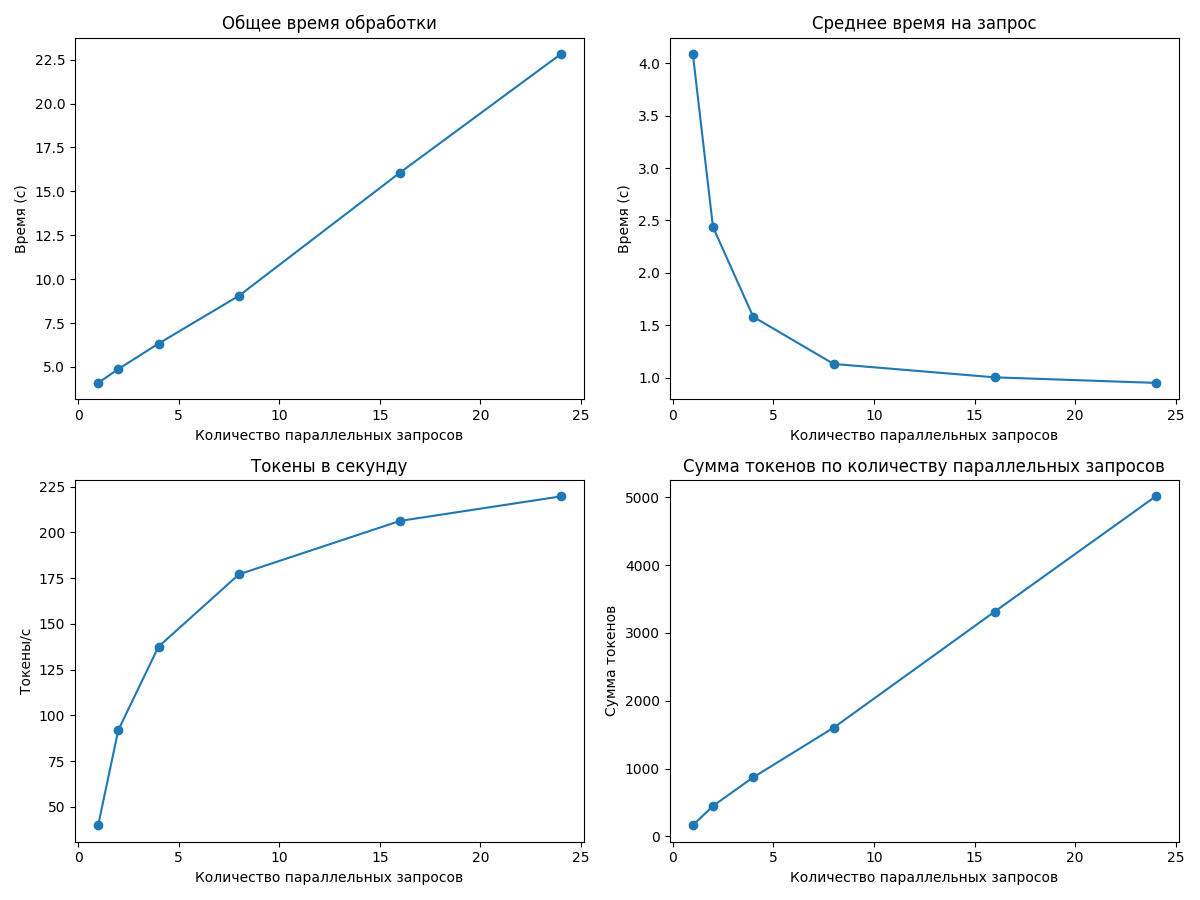
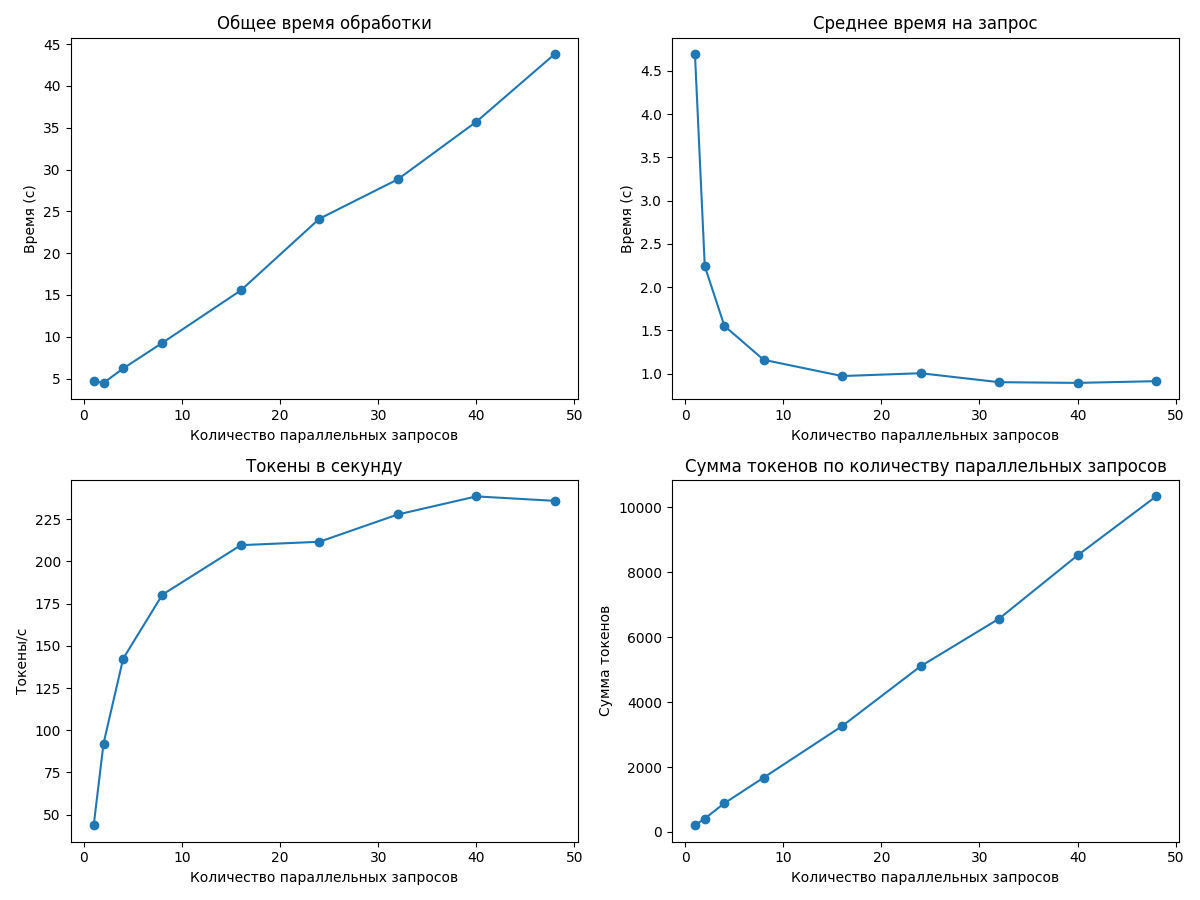
обновление характеристик

diff --git a/check_speed.py b/check_speed.py
@@ -187,43 +187,64 @@ async def main(parallels:int=8, max_requests:int=10):
 if __name__ == "__main__":
     start_time_all = time.time()
     
+    max_requests = 50
+    
     # start_time = time.time()
-    # print("Запуск проверки скорости для 4 параллельных запросов (до 30 запросов)")
-    # asyncio.run(main(parallels=4, max_requests=30))
+    # print("Запуск проверки скорости для 4 параллельных запросов (до 50 запросов)")
+    # asyncio.run(main(parallels=4, max_requests=max_requests))
     # end_time = time.time()
 
-    # print("Запуск проверки скорости для 6 параллельных запросов (до 30 запросов)")
+    # print("Запуск проверки скорости для 6 параллельных запросов (до 50 запросов)")
     # start_time = time.time()
-    # asyncio.run(main(parallels=6, max_requests=30))
+    # asyncio.run(main(parallels=6, max_requests=max_requests))
     # end_time = time.time()
 
-    print("Запуск проверки скорости для 8 параллельных запросов (до 30 запросов)")
-    start_time = time.time()
-    asyncio.run(main(parallels=8, max_requests=30))
-    end_time = time.time()
+    # print("Запуск проверки скорости для 8 параллельных запросов (до 30 запросов)")
+    # start_time = time.time()
+    # asyncio.run(main(parallels=8, max_requests=max_requests))
+    # end_time = time.time()
 
     # print("Запуск проверки скорости для 10 параллельных запросов (до 30 запросов)")
     # start_time = time.time()
-    # asyncio.run(main(parallels=10, max_requests=30))
+    # asyncio.run(main(parallels=10, max_requests=max_requests))
     # end_time = time.time()
 
     # print("Запуск проверки скорости для 12 параллельных запросов (до 30 запросов)")
     # start_time = time.time()
-    # asyncio.run(main(parallels=12, max_requests=30))
+    # asyncio.run(main(parallels=12, max_requests=max_requests))
     # end_time = time.time()
     # print(f"Завершено за {(end_time - start_time):.2f} секунд")
     
-    start_time = time.time()
-    print("Запуск проверки скорости для 15 параллельных запросов (до 30 запросов)")
-    asyncio.run(main(parallels=15, max_requests=30))
-    end_time = time.time()
-    print(f"Завершено за {(end_time - start_time):.2f} секунд")
+    # start_time = time.time()
+    # print("Запуск проверки скорости для 15 параллельных запросов (до 30 запросов)")
+    # asyncio.run(main(parallels=15, max_requests=max_requests))
+    # end_time = time.time()
+    # print(f"Завершено за {(end_time - start_time):.2f} секунд")
     
+    # start_time = time.time()
+    # print("Запуск проверки скорости для 20 параллельных запросов (до 30 запросов)")
+    # asyncio.run(main(parallels=20, max_requests=max_requests))
+    # end_time = time.time()
+    # print(f"Завершено за {(end_time - start_time):.2f} секунд")
+
     start_time = time.time()
-    print("Запуск проверки скорости для 20 параллельных запросов (до 30 запросов)")
-    asyncio.run(main(parallels=20, max_requests=30))
+    print("Запуск проверки скорости для 30 параллельных запросов (до 30 запросов)")
+    asyncio.run(main(parallels=30, max_requests=max_requests))
     end_time = time.time()
     print(f"Завершено за {(end_time - start_time):.2f} секунд")
+
+    start_time = time.time()
+    print("Запуск проверки скорости для 40 параллельных запросов (до 30 запросов)")
+    asyncio.run(main(parallels=40, max_requests=max_requests))
+    end_time = time.time()
+    print(f"Завершено за {(end_time - start_time):.2f} секунд")
+
+    start_time = time.time()
+    print("Запуск проверки скорости для 50 параллельных запросов (до 30 запросов)")
+    asyncio.run(main(parallels=50, max_requests=max_requests))
+    end_time = time.time()
+    print(f"Завершено за {(end_time - start_time):.2f} секунд")
+
 
     print(f"Полный прогон за {(end_time - start_time_all) / 60:.2f} минут")
     

diff --git a/report.md b/report.md
@@ -6,19 +6,19 @@
 
 |   Количество параллельных запросов |   Оптимальный размер пакета |   Максимальная скорость (токены/сек) |
 |-----------------------------------:|----------------------------:|-------------------------------------:|
-|                                  4 |                          16 |                              153.303 |
-|                                  6 |                          48 |                              189.129 |
-|                                  8 |                          24 |                              205.065 |
-|                                 10 |                          24 |                              219.66  |
-|                                 12 |                          24 |                              247.47  |
-|                                 15 |                          24 |                              245.023 |
-|                                 20 |                          16 |                              245.086 |
+|                                  4 |                          40 |                              232.02  |
+|                                  6 |                          48 |                              224.558 |
+|                                  8 |                          48 |                              204.785 |
+|                                 10 |                          40 |                              238.537 |
+|                                 12 |                          48 |                              254.737 |
+|                                 15 |                          48 |                              260.276 |
+|                                 20 |                          40 |                              293.325 |
 
 ### Наилучшая конфигурация для данного оборудования
 
-- **Количество параллельных запросов:** 12
-- **Оптимальный размер пакета:** 24
-- **Скорость обработки:** 247.47 токенов/сек
+- **Количество параллельных запросов:** 20
+- **Оптимальный размер пакета:** 40
+- **Скорость обработки:** 293.33 токенов/сек
 
 ---
 
@@ -32,16 +32,19 @@
 
 |   Количество параллельных запросов |   Общее время (с) |   Среднее время на запрос (с) |   Токены в секунду |   Сумма токенов |
 |-----------------------------------:|------------------:|------------------------------:|-------------------:|----------------:|
-|                                  1 |           4.67303 |                       4.67303 |            41.3008 |             193 |
-|                                  2 |           4.27433 |                       2.13716 |            90.7746 |             388 |
-|                                  4 |           5.83158 |                       1.45789 |           135.469  |             790 |
-|                                  8 |          10.6917  |                       1.33647 |           143.101  |            1530 |
-|                                 16 |          20.952   |                       1.3095  |           153.303  |            3212 |
-|                                 24 |          33.1616  |                       1.38173 |           153.219  |            5081 |
+|                                  1 |           6.81911 |                      6.81911  |            30.9424 |             211 |
+|                                  2 |           4.60466 |                      2.30233  |            87.3029 |             402 |
+|                                  4 |           6.44395 |                      1.61099  |           134.39   |             866 |
+|                                  8 |           9.3083  |                      1.16354  |           179.087  |            1667 |
+|                                 16 |          17.0775  |                      1.06735  |           209.339  |            3575 |
+|                                 24 |          22.845   |                      0.951877 |           211.293  |            4827 |
+|                                 32 |          30.1677  |                      0.94274  |           216.888  |            6543 |
+|                                 40 |          35.2987  |                      0.882467 |           232.02   |            8190 |
+|                                 48 |          43.0787  |                      0.897472 |           228.048  |            9824 |
 
-**Оптимальный размер пакета:** 16
+**Оптимальный размер пакета:** 40
 
-**Максимальная скорость обработки:** 153.30 токенов в секунду
+**Максимальная скорость обработки:** 232.02 токенов в секунду
 
 ---
 
@@ -53,19 +56,19 @@
 
 |   Количество параллельных запросов |   Общее время (с) |   Среднее время на запрос (с) |   Токены в секунду |   Сумма токенов |
 |-----------------------------------:|------------------:|------------------------------:|-------------------:|----------------:|
-|                                  1 |           4.41806 |                       4.41806 |            41.6473 |             184 |
-|                                  2 |           4.45845 |                       2.22922 |            91.9602 |             410 |
-|                                  4 |           5.88795 |                       1.47199 |           138.418  |             815 |
-|                                  8 |          11.1023  |                       1.38778 |           152.942  |            1698 |
-|                                 16 |          18.0671  |                       1.12919 |           178.058  |            3217 |
-|                                 24 |          26.162   |                       1.09008 |           184.16   |            4818 |
-|                                 32 |          36.4348  |                       1.13859 |           184.522  |            6723 |
-|                                 40 |          44.4571  |                       1.11143 |           185.077  |            8228 |
-|                                 48 |          53.4396  |                       1.11333 |           189.129  |           10107 |
+|                                  1 |           4.62288 |                      4.62288  |            43.0468 |             199 |
+|                                  2 |           4.35595 |                      2.17798  |            85.1708 |             371 |
+|                                  4 |           5.71586 |                      1.42896  |           145.035  |             829 |
+|                                  8 |           9.55928 |                      1.19491  |           173.549  |            1659 |
+|                                 16 |          17.048   |                      1.0655   |           197.795  |            3372 |
+|                                 24 |          23.0033  |                      0.958469 |           208.101  |            4787 |
+|                                 32 |          30.669   |                      0.958408 |           221.885  |            6805 |
+|                                 40 |          37.4506  |                      0.936266 |           222.533  |            8334 |
+|                                 48 |          45.6498  |                      0.951036 |           224.558  |           10251 |
 
 **Оптимальный размер пакета:** 48
 
-**Максимальная скорость обработки:** 189.13 токенов в секунду
+**Максимальная скорость обработки:** 224.56 токенов в секунду
 
 ---
 
@@ -77,16 +80,19 @@
 
 |   Количество параллельных запросов |   Общее время (с) |   Среднее время на запрос (с) |   Токены в секунду |   Сумма токенов |
 |-----------------------------------:|------------------:|------------------------------:|-------------------:|----------------:|
-|                                  1 |           4.86052 |                       4.86052 |            42.7938 |             208 |
-|                                  2 |           4.31465 |                       2.15733 |            89.2309 |             385 |
-|                                  4 |           5.73824 |                       1.43456 |           134.71   |             773 |
-|                                  8 |           8.55329 |                       1.06916 |           175.254  |            1499 |
-|                                 16 |          17.4805  |                       1.09253 |           196.048  |            3427 |
-|                                 24 |          24.0997  |                       1.00416 |           205.065  |            4942 |
+|                                  1 |           4.89666 |                      4.89666  |            44.3159 |             217 |
+|                                  2 |           5.28526 |                      2.64263  |            88.5481 |             468 |
+|                                  4 |           7.17526 |                      1.79382  |           115.675  |             830 |
+|                                  8 |          10.1284  |                      1.26605  |           168.734  |            1709 |
+|                                 16 |          17.9189  |                      1.11993  |           189.8    |            3401 |
+|                                 24 |          24.8927  |                      1.0372   |           197.126  |            4907 |
+|                                 32 |          33.5023  |                      1.04695  |           203.09   |            6804 |
+|                                 40 |          39.3168  |                      0.982919 |           201.924  |            7939 |
+|                                 48 |          50.4235  |                      1.05049  |           204.785  |           10326 |
 
-**Оптимальный размер пакета:** 24
+**Оптимальный размер пакета:** 48
 
-**Максимальная скорость обработки:** 205.06 токенов в секунду
+**Максимальная скорость обработки:** 204.79 токенов в секунду
 
 ---
 
@@ -98,16 +104,19 @@
 
 |   Количество параллельных запросов |   Общее время (с) |   Среднее время на запрос (с) |   Токены в секунду |   Сумма токенов |
 |-----------------------------------:|------------------:|------------------------------:|-------------------:|----------------:|
-|                                  1 |           4.08767 |                      4.08767  |            39.876  |             163 |
-|                                  2 |           4.87506 |                      2.43753  |            91.8962 |             448 |
-|                                  4 |           6.32661 |                      1.58165  |           137.514  |             870 |
-|                                  8 |           9.05322 |                      1.13165  |           177.064  |            1603 |
-|                                 16 |          16.0674  |                      1.00421  |           206.256  |            3314 |
-|                                 24 |          22.8262  |                      0.951091 |           219.66   |            5014 |
+|                                  1 |           4.69585 |                      4.69585  |            43.6556 |             205 |
+|                                  2 |           4.48589 |                      2.24294  |            92.0665 |             413 |
+|                                  4 |           6.20935 |                      1.55234  |           142.366  |             884 |
+|                                  8 |           9.27941 |                      1.15993  |           180.292  |            1673 |
+|                                 16 |          15.5549  |                      0.97218  |           209.645  |            3261 |
+|                                 24 |          24.1199  |                      1.005    |           211.651  |            5105 |
+|                                 32 |          28.8375  |                      0.901173 |           227.828  |            6570 |
+|                                 40 |          35.7219  |                      0.893048 |           238.537  |            8521 |
+|                                 48 |          43.8256  |                      0.913032 |           235.89   |           10338 |
 
-**Оптимальный размер пакета:** 24
+**Оптимальный размер пакета:** 40
 
-**Максимальная скорость обработки:** 219.66 токенов в секунду
+**Максимальная скорость обработки:** 238.54 токенов в секунду
 
 ---
 
@@ -119,16 +128,19 @@
 
 |   Количество параллельных запросов |   Общее время (с) |   Среднее время на запрос (с) |   Токены в секунду |   Сумма токенов |
 |-----------------------------------:|------------------:|------------------------------:|-------------------:|----------------:|
-|                                  1 |           4.63299 |                      4.63299  |            41.0102 |             190 |
-|                                  2 |           5.19462 |                      2.59731  |            87.3982 |             454 |
-|                                  4 |           6.39292 |                      1.59823  |           133.429  |             853 |
-|                                  8 |           9.63804 |                      1.20475  |           171.923  |            1657 |
-|                                 16 |          16.6832  |                      1.0427   |           199.902  |            3335 |
-|                                 24 |          19.9903  |                      0.832931 |           247.47   |            4947 |
+|                                  1 |           5.47623 |                      5.47623  |            47.2953 |             259 |
+|                                  2 |           4.69321 |                      2.34661  |            88.2125 |             414 |
+|                                  4 |           6.28114 |                      1.57029  |           139.465  |             876 |
+|                                  8 |           9.14754 |                      1.14344  |           172.833  |            1581 |
+|                                 16 |          15.8451  |                      0.99032  |           208.771  |            3308 |
+|                                 24 |          20.0383  |                      0.834931 |           252.466  |            5059 |
+|                                 32 |          27.8088  |                      0.869026 |           239.564  |            6662 |
+|                                 40 |          32.5661  |                      0.814152 |           248.111  |            8080 |
+|                                 48 |          40.2219  |                      0.837955 |           254.737  |           10246 |
 
-**Оптимальный размер пакета:** 24
+**Оптимальный размер пакета:** 48
 
-**Максимальная скорость обработки:** 247.47 токенов в секунду
+**Максимальная скорость обработки:** 254.74 токенов в секунду
 
 ---
 
@@ -140,16 +152,19 @@
 
 |   Количество параллельных запросов |   Общее время (с) |   Среднее время на запрос (с) |   Токены в секунду |   Сумма токенов |
 |-----------------------------------:|------------------:|------------------------------:|-------------------:|----------------:|
-|                                  1 |           5.02573 |                      5.02573  |            45.5656 |             229 |
-|                                  2 |           4.61775 |                      2.30888  |            86.8388 |             401 |
-|                                  4 |           5.8502  |                      1.46255  |           139.141  |             814 |
-|                                  8 |           8.54367 |                      1.06796  |           188.092  |            1607 |
-|                                 16 |          14.9067  |                      0.931671 |           206.685  |            3081 |
-|                                 24 |          21.7164  |                      0.904848 |           245.023  |            5321 |
+|                                  1 |           4.16173 |                      4.16173  |            40.3678 |             168 |
+|                                  2 |           4.23673 |                      2.11837  |            92.9961 |             394 |
+|                                  4 |           5.91224 |                      1.47806  |           140.556  |             831 |
+|                                  8 |           8.67661 |                      1.08458  |           180.024  |            1562 |
+|                                 16 |          15.8622  |                      0.991388 |           211.131  |            3349 |
+|                                 24 |          21.9856  |                      0.916068 |           231.788  |            5096 |
+|                                 32 |          26.4889  |                      0.827779 |           250.444  |            6634 |
+|                                 40 |          33.5499  |                      0.838748 |           257.08   |            8625 |
+|                                 48 |          38.8126  |                      0.808596 |           260.276  |           10102 |
 
-**Оптимальный размер пакета:** 24
+**Оптимальный размер пакета:** 48
 
-**Максимальная скорость обработки:** 245.02 токенов в секунду
+**Максимальная скорость обработки:** 260.28 токенов в секунду
 
 ---
 
@@ -161,16 +176,19 @@
 
 |   Количество параллельных запросов |   Общее время (с) |   Среднее время на запрос (с) |   Токены в секунду |   Сумма токенов |
 |-----------------------------------:|------------------:|------------------------------:|-------------------:|----------------:|
-|                                  1 |           5.25904 |                      5.25904  |            46.9668 |             247 |
-|                                  2 |           5.36712 |                      2.68356  |            88.6882 |             476 |
-|                                  4 |           7.05565 |                      1.76391  |           128.124  |             904 |
-|                                  8 |           8.4675  |                      1.05844  |           182.817  |            1548 |
-|                                 16 |          13.2199  |                      0.826242 |           245.086  |            3240 |
-|                                 24 |          20.8623  |                      0.869261 |           239.907  |            5005 |
+|                                  1 |           4.43216 |                      4.43216  |            40.8379 |             181 |
+|                                  2 |           4.50171 |                      2.25085  |            89.5216 |             403 |
+|                                  4 |           5.73043 |                      1.43261  |           134.719  |             772 |
+|                                  8 |           8.82857 |                      1.10357  |           192.67   |            1701 |
+|                                 16 |          13.229   |                      0.826815 |           243.782  |            3225 |
+|                                 24 |          20.1802  |                      0.840841 |           241.871  |            4881 |
+|                                 32 |          24.6992  |                      0.771849 |           265.92   |            6568 |
+|                                 40 |          27.8769  |                      0.696923 |           293.325  |            8177 |
+|                                 48 |          37.3154  |                      0.777405 |           270.612  |           10098 |
 
-**Оптимальный размер пакета:** 16
+**Оптимальный размер пакета:** 40
 
-**Максимальная скорость обработки:** 245.09 токенов в секунду
+**Максимальная скорость обработки:** 293.33 токенов в секунду
 
 ---
 
